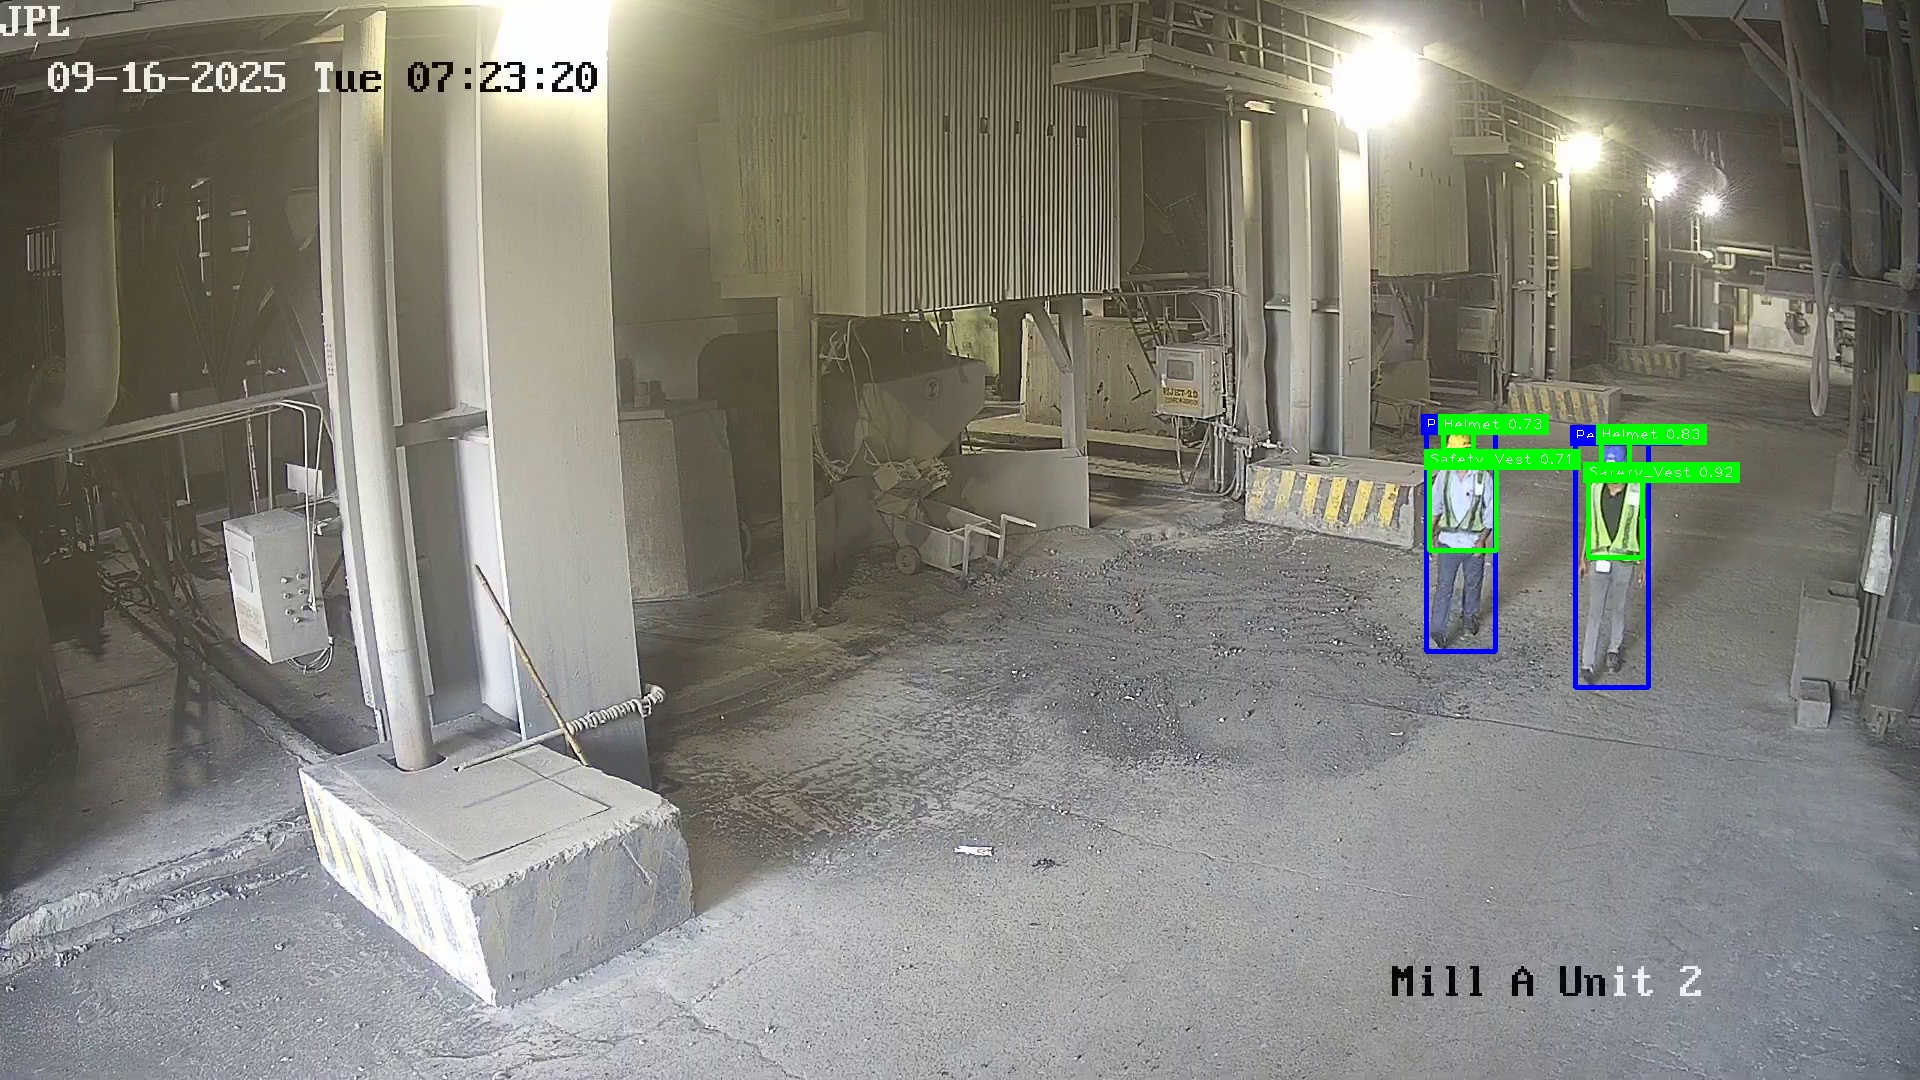
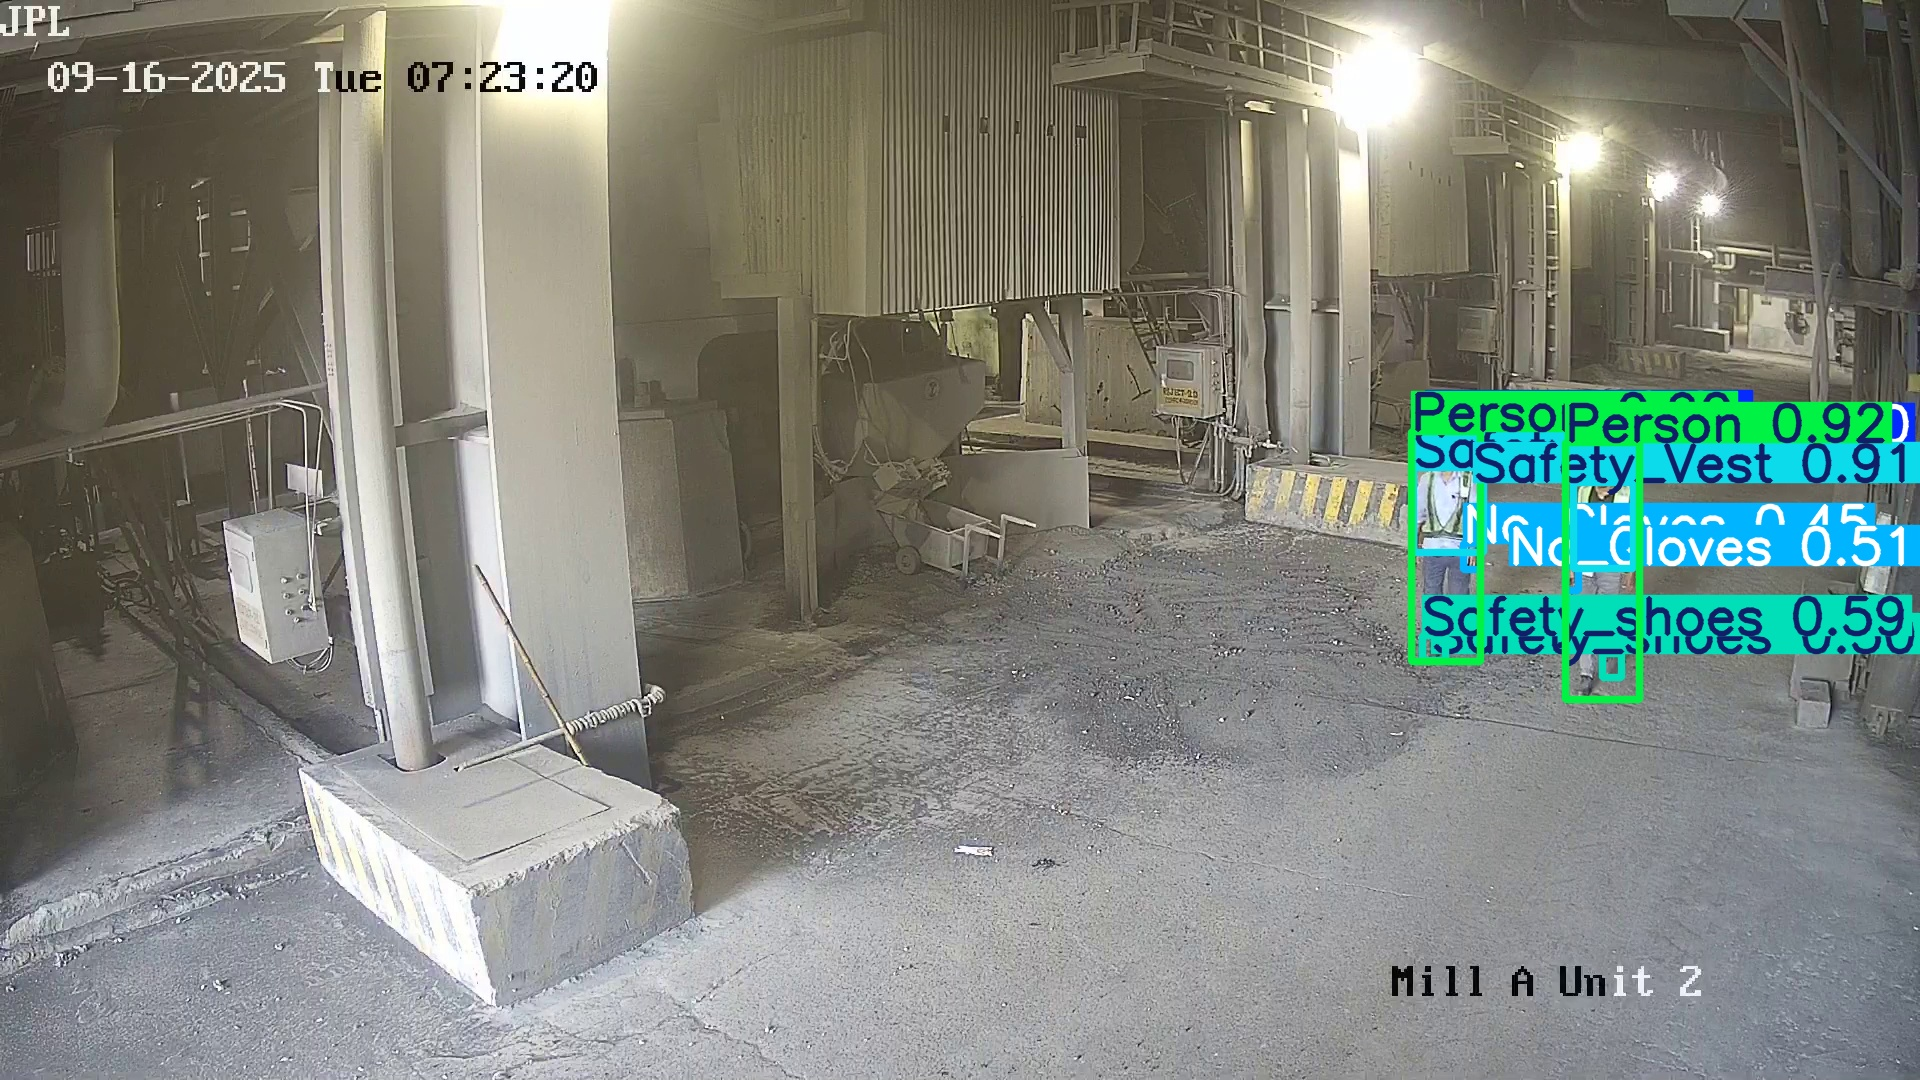
detection lines added

Changed region(s): [[0.7188, 0.3361, 1.0, 0.6722]]

diff --git a/backend/app.py b/backend/app.py
@@ -326,13 +326,6 @@ def generate_detection_frames():
             f"Error: Could not open camera {camera_name}. Type: {camera_type}, URL: {camera_url}")
         return
 
-    # Class names for different objects detected by the model
-    '''classNames = ['Hardhat', 'Mask', 'NO-Hardhat', 'NO-Mask', 'NO-Safety Vest', 'Person', 
-                 'Safety Cone', 'Safety Vest', 'machinery', 'vehicle']'''
-
-    classNames = ['Helmet', 'Safety_Vest', 'Safety_goggles', 'Safety_shoes', 'No_helmet', 'No_Vest',
-                  'No_goggles', 'No_SafetyShoes', 'Person', 'Safety_Gloves', 'No_Gloves']
-
     try:
         while detection_running:
             success, img = cam.read()
@@ -351,39 +344,23 @@ def generate_detection_frames():
                 
                 # Check for violations and save images if needed
                 boxes = r.boxes
-                for box in boxes:
-                    x1, y1, x2, y2 = box.xyxy[0]
-                    x1, y1, x2, y2 = int(x1), int(y1), int(x2), int(y2)
+                if boxes is not None:
+                    for box in boxes:
+                        # Calculate confidence and class index
+                        conf = math.ceil((box.conf[0] * 100)) / 100
+                        cls = int(box.cls[0])
+                        currentClass = yolo_model.names[cls]
 
-                    # Calculate confidence and class index
-                    conf = math.ceil((box.conf[0] * 100)) / 100
-                    cls = int(box.cls[0])
-                    currentClass = classNames[cls]
+                        # Save violation images for specific classes
+                        if conf > 0.5 and currentClass in ['No_helmet', 'No_Vest', 'No_goggles', 'No_SafetyShoes', 'No_Gloves']:
+                            cv2.imwrite(f"media/face_detect/output{curr_datetime}.jpg", annotated_img)
+                            cv2.imwrite("media/face_detect/output.jpg", annotated_img)
 
-                    # Set color based on the class
-                    if conf > 0.5:
-                        if currentClass in ['No_helmet', 'No_Vest', 'No_goggles', 'No_SafetyShoes', 'No_Gloves']:
-                            myColor = (0, 0, 255)  # Red
-                            cv2.imwrite(
-                                f"media/face_detect/output{curr_datetime}.jpg", img)
-                            cv2.imwrite("media/face_detect/output.jpg", img)
-                        elif currentClass in ['Helmet', 'Safety_Vest', 'Safety_goggles', 'Safety_shoes', 'Safety_Gloves']:
-                            myColor = (0, 255, 0)  # Green
-                        else:
-                            myColor = (255, 0, 0)  # Blue
-
-                        # Display the class name and confidence
-                        cvzone.putTextRect(img, f'{classNames[cls]} {conf}',
-                                           (max(0, x1), max(35, y1)), scale=1, thickness=1,
-                                           colorB=myColor, colorT=(
-                                               255, 255, 255),
-                                           colorR=myColor, offset=5)
-
-                        # Draw bounding box
-                        cv2.rectangle(img, (x1, y1), (x2, y2), myColor, 3)
-
-                        # Detect faces
+                        # Detect faces for violations
                         detectFace(currentClass)
+
+                # Use the annotated image from YOLO's default plotting
+                img = annotated_img
 
             # Resize for better performance
             img = cv2.resize(img, (640, 480))
@@ -1135,79 +1112,40 @@ def generate_processed_frames2(video_path):
 
                 try:
                     for r in results:
-                        if r is None or r.boxes is None:
+                        if r is None:
                             continue
                             
+                        # Use YOLO's built-in plot method for default visualization
+                        annotated_img = r.plot()
+                        
+                        # Check for violations and save images if needed
                         boxes = r.boxes
-                        if boxes is None or len(boxes) == 0:
-                            continue
-                            
-                        for box in boxes:
-                            if box is None or box.xyxy is None or len(box.xyxy) == 0:
-                                continue
-                                
-                            try:
-                                x1, y1, x2, y2 = box.xyxy[0]
-                                x1, y1, x2, y2 = int(x1), int(y1), int(x2), int(y2)
-
+                        if boxes is not None:
+                            for box in boxes:
                                 # Calculate confidence and class index
-                                if box.conf is None or len(box.conf) == 0 or box.cls is None or len(box.cls) == 0:
-                                    continue
-                                    
                                 conf = math.ceil((box.conf[0] * 100)) / 100
                                 cls = int(box.cls[0])
-                                
-                                # Validate class index
-                                if cls >= len(classNames) or cls < 0:
-                                    print(f"Warning: Invalid class index {cls} at frame {frame_counter}")
-                                    continue
-                                    
-                                currentClass = classNames[cls]
+                                currentClass = yolo_model.names[cls]
 
-                                # Set color based on the class
-                                if conf > 0.5:
-                                    if currentClass in ['No_helmet', 'No_Vest', 'No_goggles', 'No_SafetyShoes', 'No_Gloves']:
-                                        myColor = (0, 0, 255)  # Red
-                                        try:
-                                            cv2.imwrite(f"media/face_detect/output{curr_datetime}.jpg", img)
-                                            cv2.imwrite("media/face_detect/output.jpg", img)
-                                        except Exception as write_error:
-                                            print(f"Warning: Failed to write output image at frame {frame_counter}: {write_error}")
-
-                                        # Count violation for specific classes
-                                        if currentClass in ['No_helmet', 'No_Vest', 'No_goggles', 'No_SafetyShoes', 'No_Gloves']:
-                                            count_violation(currentClass)
-
-                                    elif currentClass in ['Helmet', 'Safety_Vest', 'Safety_goggles', 'Safety_shoes', 'Safety_Gloves']:
-                                        myColor = (0, 255, 0)  # Green
-                                    else:
-                                        myColor = (255, 0, 0)  # Blue
-
-                                    # Display the class name and confidence
+                                # Save violation images for specific classes
+                                if conf > 0.5 and currentClass in ['No_helmet', 'No_Vest', 'No_goggles', 'No_SafetyShoes', 'No_Gloves']:
                                     try:
-                                        cvzone.putTextRect(img, f'{classNames[cls]} {conf}',
-                                                           (max(0, x1), max(35, y1)), scale=1, thickness=1,
-                                                           colorB=myColor, colorT=(
-                                                               255, 255, 255),
-                                                           colorR=myColor, offset=5)
-                                    except Exception as text_error:
-                                        print(f"Warning: Failed to draw text at frame {frame_counter}: {text_error}")
+                                        cv2.imwrite(f"media/face_detect/output{curr_datetime}.jpg", annotated_img)
+                                        cv2.imwrite("media/face_detect/output.jpg", annotated_img)
+                                    except Exception as write_error:
+                                        print(f"Warning: Failed to write output image at frame {frame_counter}: {write_error}")
 
-                                    # Draw bounding box
-                                    try:
-                                        cv2.rectangle(img, (x1, y1), (x2, y2), myColor, 3)
-                                    except Exception as rect_error:
-                                        print(f"Warning: Failed to draw rectangle at frame {frame_counter}: {rect_error}")
+                                    # Count violation for specific classes
+                                    count_violation(currentClass)
 
-                                    # Detect faces
-                                    try:
-                                        detectFace(currentClass)
-                                    except Exception as face_error:
-                                        print(f"Warning: Face detection error at frame {frame_counter}: {face_error}")
-                                        
-                            except Exception as box_error:
-                                print(f"Warning: Box processing error at frame {frame_counter}: {box_error}")
-                                continue
+                                # Detect faces for violations
+                                try:
+                                    detectFace(currentClass)
+                                except Exception as face_error:
+                                    print(f"Warning: Face detection error at frame {frame_counter}: {face_error}")
+
+                        # Use the annotated image from YOLO's default plotting
+                        img = annotated_img
                                 
                 except Exception as results_error:
                     print(f"Warning: Results processing error at frame {frame_counter}: {results_error}")
